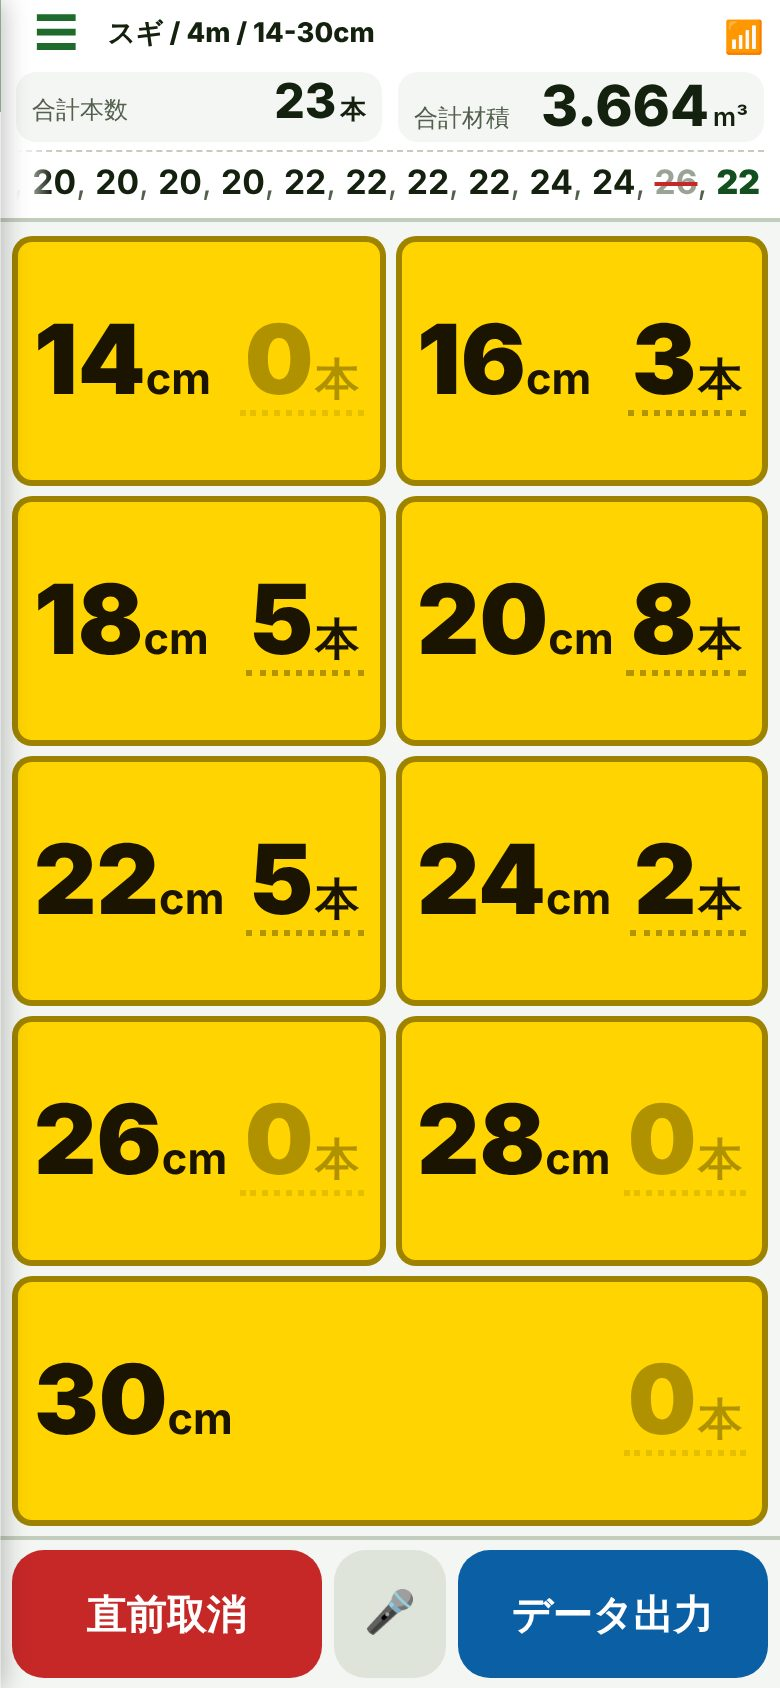
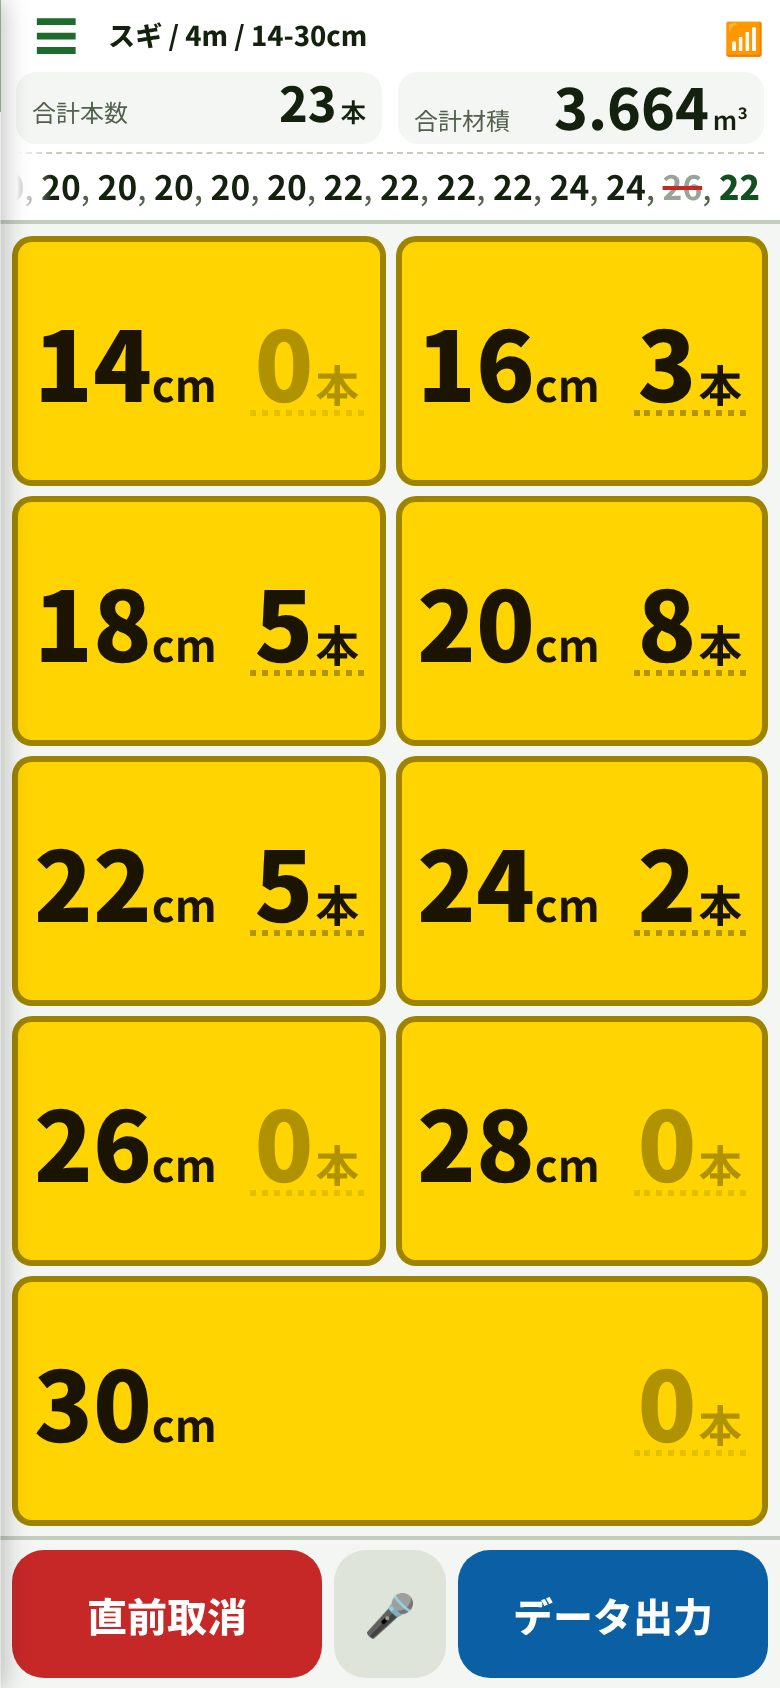
LP: スクリーンショットとOG画像を日本語フォントで撮り直す（漢字が中国語の字形になっていた）
Claude-Session: https://claude.ai/code/session_01GfSShEazHSa2iG9HbmnMYt

diff --git a/STATUS_LOCAL.md b/STATUS_LOCAL.md
@@ -1001,3 +1001,8 @@
 - 公開は、神田さんのOKのあと：PCの `terra-tx-jitsugi-site\public\log-ra\` にコピー→購入リンクを入れる→下書きの帯を消す→sitemap に1行→`firebase deploy`（public 全体で置き換わる点に注意）。手順は `lp/README.md`
 - Notion：接続できなかったため、今回の分は未更新
 
+### 2026-11-17 [log-truck-volume-app]（LPのスクリーンショットの漢字が中国語の字形になっていた件を直した）
+- 原因：スクリーンショットを撮った作業環境に、中国語用フォント（WenQuanYi）が標準の日本語フォントより先に入っていて、アプリの文字指定（端末の標準フォント）がそれに当たっていた。実際の日本語の端末では、日本語の字形で出る（アプリ自体の問題ではない）
+- 対応：日本語フォント（Noto Sans JP）を入れて、スクリーンショット4枚とOG画像を撮り直した（`lp/log-ra/shots/ja/`・`og-image.jpg`）。字形が日本語になったことを目で確認した
+- 教訓：画像を作るときは、日本語フォントを明示して撮る。LP本体の文字は、利用者の端末のフォントで出るので問題ない（`<html lang="ja">`）
+
